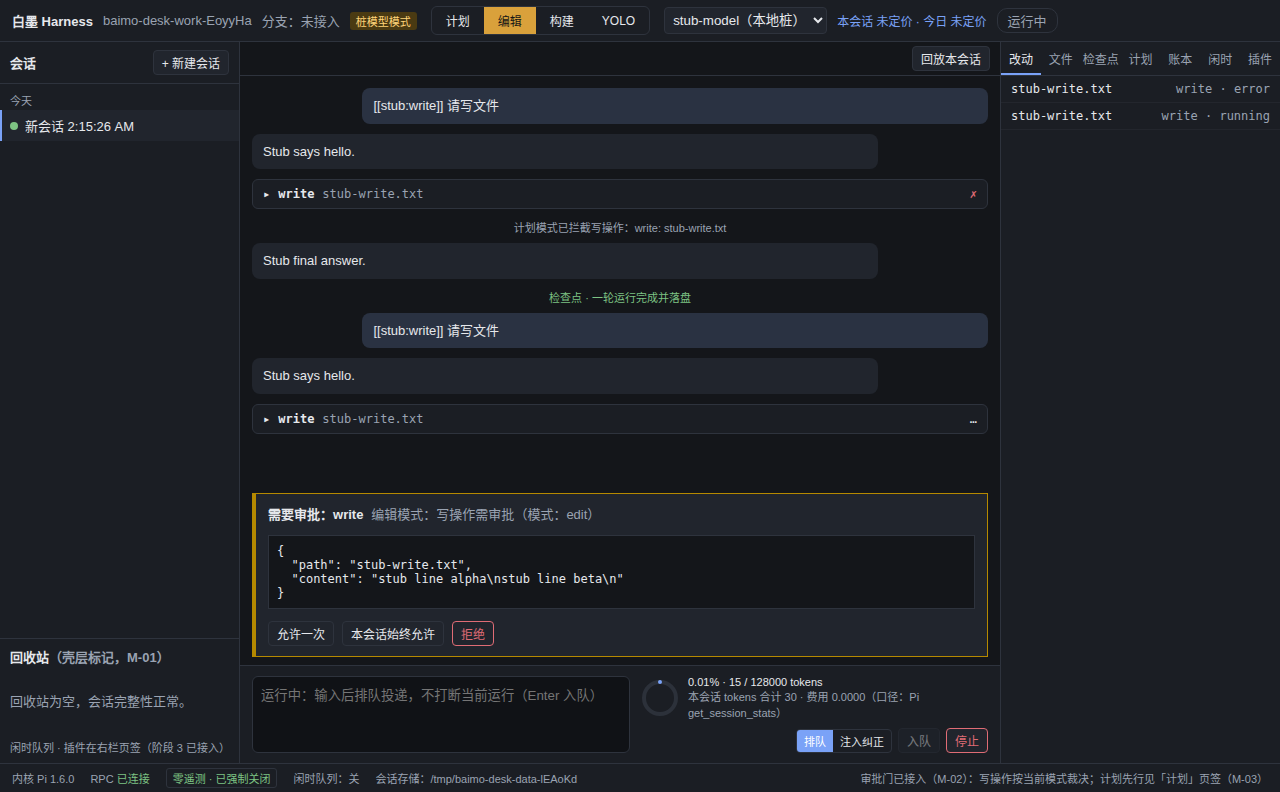
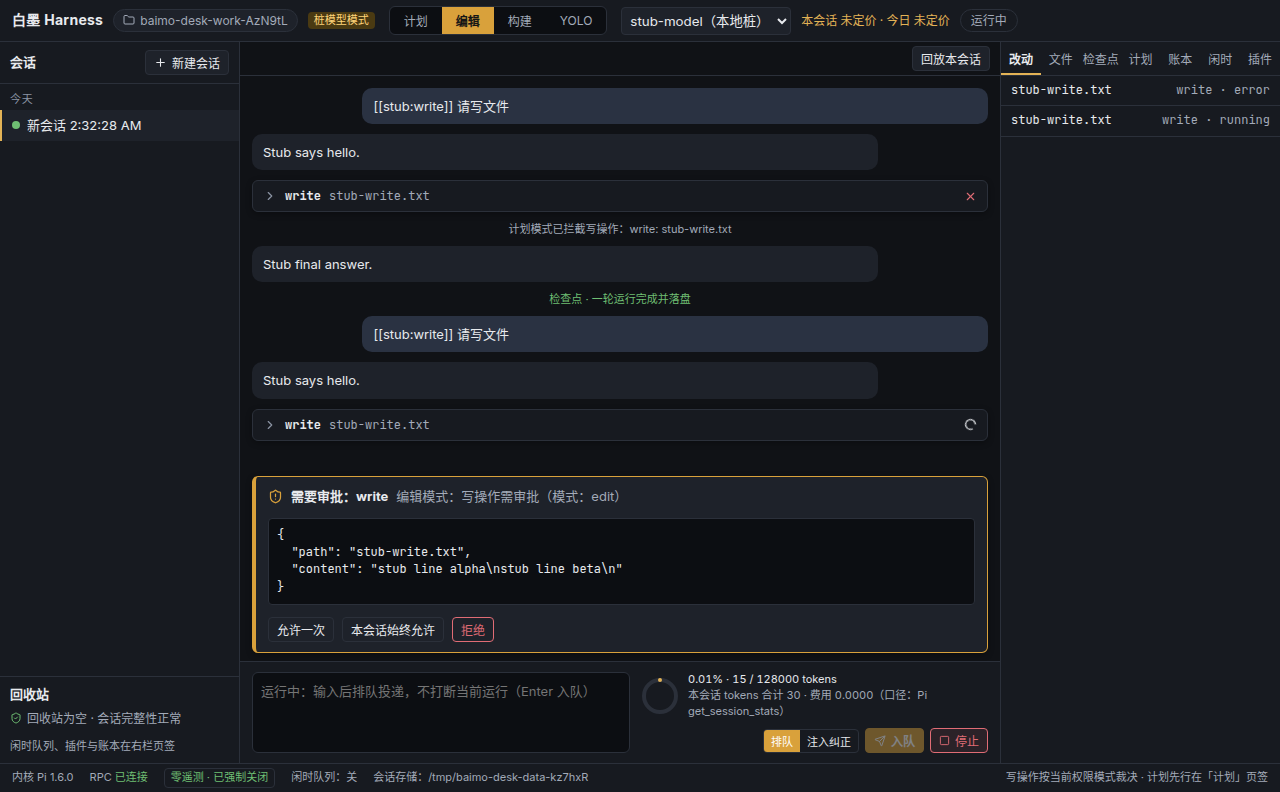
feat(ui): 第八块单元3 去占位与设计化空状态（EmptyState/LoadingRow 全面替换裸灰字、文件页签改设计空状态、修插件说明裸 ** 标记、文案去工程味：删分支未接入/M-xx 字样）

diff --git a/packages/ui/src/components.tsx b/packages/ui/src/components.tsx
@@ -9,19 +9,62 @@ import {
   ChevronRight,
   ChevronUp,
   Circle,
+  FileDiff,
+  Folder,
+  FolderOpen,
+  History,
+  Hourglass,
+  ListTodo,
   LoaderCircle,
+  MessagesSquare,
   Pause,
   Play,
   Plus,
+  Puzzle,
   RotateCcw,
   Send,
   ShieldAlert,
+  ShieldCheck,
   SkipBack,
   SkipForward,
   Square,
+  SquareTerminal,
   Undo2,
+  Wallet,
   X,
 } from "lucide-react";
+
+/* ---------------- 通用呈现：空状态与加载行 ---------------- */
+
+/**
+ * 设计化空状态：图标 + 一句结论 + 一句方向（下一步去哪/做什么）。
+ * 取代「白板 + 一行灰字」的占位式呈现；文案口径：给方向不给情绪。
+ */
+export function EmptyState(props: {
+  icon: ReactNode;
+  title: string;
+  hint?: string;
+  children?: ReactNode;
+}) {
+  return (
+    <div className="empty-state">
+      <span className="empty-icon">{props.icon}</span>
+      <span className="empty-title">{props.title}</span>
+      {props.hint && <span className="empty-hint">{props.hint}</span>}
+      {props.children}
+    </div>
+  );
+}
+
+/** 加载行：转圈图标 + 文案，取代裸「加载中…」灰字。 */
+export function LoadingRow(props: { label: string }) {
+  return (
+    <p className="loading-row">
+      <LoaderCircle size={13} className="icon-spin" />
+      {props.label}
+    </p>
+  );
+}
 import {
   PERMISSION_MODES,
   type ApprovalChoice,
@@ -70,9 +113,9 @@ export function TopBar(props: {
     <header className="topbar" data-testid="topbar">
       <div className="topbar-left">
         <span className="brand">白墨 Harness</span>
-        <span className="dim">{wsName}</span>
-        <span className="dim" title="Git 集成在阶段 2 接入">
-          分支：未接入
+        <span className="ws-chip" title={`工作区：${snapshot.workspaceDir}`}>
+          <Folder size={12} />
+          {wsName}
         </span>
         {snapshot.stubMode && <span className="badge-stub">桩模型模式</span>}
       </div>
@@ -108,7 +151,7 @@ export function TopBar(props: {
               );
               if (found) props.onModelChange(found.provider, found.modelId);
             }}
-            title="模型（应用于新会话；会话内热切换下一块接入）"
+            title="模型（应用于新会话）"
           >
             {snapshot.availableModels.map((m) => (
               <option
@@ -186,7 +229,11 @@ export function SessionList(props: {
       </div>
       <div className="session-scroll">
         {props.sessions.length === 0 && (
-          <p className="dim pad">暂无会话，点「新建会话」开始。</p>
+          <EmptyState
+            icon={<MessagesSquare size={17} />}
+            title="暂无会话"
+            hint="点右上角「新建会话」，开始第一轮任务。"
+          />
         )}
         {groups.map(([group, list]) => (
           <div key={group}>
@@ -223,11 +270,13 @@ export function SessionList(props: {
         ))}
       </div>
       <div className="sidebar-foot">
-        <div className="trash-head">
-          回收站
-          <span className="dim">（壳层标记，M-01）</span>
-        </div>
-        {props.trashed.length === 0 && <p className="dim pad">回收站为空，会话完整性正常。</p>}
+        <div className="trash-head">回收站</div>
+        {props.trashed.length === 0 && (
+          <p className="trash-empty">
+            <ShieldCheck size={12} />
+            回收站为空 · 会话完整性正常
+          </p>
+        )}
         {props.trashed.map((s) => (
           <div key={s.id} className="trash-item" data-testid="trash-item">
             <span className="session-title">{s.title}</span>
@@ -242,7 +291,7 @@ export function SessionList(props: {
             </button>
           </div>
         ))}
-        <div className="sidebar-links dim">闲时队列 · 插件在右栏页签（阶段 3 已接入）</div>
+        <div className="sidebar-links dim">闲时队列、插件与账本在右栏页签</div>
       </div>
     </aside>
   );
@@ -352,7 +401,11 @@ export function StreamView(props: {
   return (
     <div className="stream" data-testid="stream">
       {state.items.length === 0 && (
-        <p className="dim pad">执行流为空。在下方输入一条指令开始。</p>
+        <EmptyState
+          icon={<SquareTerminal size={17} />}
+          title="执行流为空"
+          hint="在下方输入一条指令，agent 的执行过程会实时出现在这里。"
+        />
       )}
       {state.items.map((it) => {
         switch (it.kind) {
@@ -457,7 +510,7 @@ export function IdlePanel(props: {
   if (!view) {
     return (
       <div data-testid="panel-idle">
-        <p className="dim pad">闲时队列加载中…</p>
+        <LoadingRow label="闲时队列加载中…" />
       </div>
     );
   }
@@ -476,7 +529,7 @@ export function IdlePanel(props: {
           启用闲时队列（全局空闲时自动执行）
         </label>
         <span className="dim">
-          未经启用绝不自启动（D-01）。排队 {queuedCount} 条
+          未经启用绝不自启动。排队 {queuedCount} 条
           {runningCount > 0 ? ` · 执行中 ${runningCount} 条` : ""}。任务走与
           前台相同的链路：检查点自动打点、审批/计划照常、成本入账、超预算熔断停摆。
           前台任务到来时正在跑的闲时任务会让路回队列。
@@ -535,7 +588,11 @@ export function IdlePanel(props: {
       </div>
       <div className="idle-items">
         {view.items.length === 0 && (
-          <p className="dim pad">队列为空：把不紧急的活丢进来，空闲时自动跑。</p>
+          <EmptyState
+            icon={<Hourglass size={17} />}
+            title="队列为空"
+            hint="把不紧急的活投递进来，全局空闲时会自动按序执行。"
+          />
         )}
         {view.items.map((it) => (
           <div
@@ -618,14 +675,18 @@ export function PluginsPanel(props: {
   const plugins = props.plugins;
   return (
     <div data-testid="panel-plugins">
-      <p className="dim pad">
-        插件 = Pi 扩展（本地目录扫描）。启停落盘保存，对**新建或续接**的
+      <p className="panel-note">
+        插件 = Pi 扩展（本地目录扫描）。启停落盘保存，对<strong>新建或续接</strong>的
         会话生效，进行中的会话不变。加载失败的插件会让会话启动失败，
         并在报错里点名该插件与原因——坏插件也会先在本面板显形。
       </p>
-      {plugins === null && <p className="dim pad">插件目录加载中…</p>}
+      {plugins === null && <LoadingRow label="插件目录加载中…" />}
       {plugins !== null && plugins.length === 0 && (
-        <p className="dim pad">插件目录为空：把扩展 .mjs 文件放进数据目录的 plugins/ 子目录即可。</p>
+        <EmptyState
+          icon={<Puzzle size={17} />}
+          title="插件目录为空"
+          hint="把扩展 .mjs 文件放进数据目录的 plugins/ 子目录，新建会话时加载。"
+        />
       )}
       {(plugins ?? []).map((p) => (
         <div
@@ -707,7 +768,7 @@ export function LedgerPanel(props: {
   if (!view) {
     return (
       <div data-testid="panel-ledger">
-        <p className="dim pad">成本账本加载中…</p>
+        <LoadingRow label="成本账本加载中…" />
       </div>
     );
   }
@@ -832,7 +893,11 @@ export function LedgerPanel(props: {
         <h4>最近账目</h4>
         <div data-testid="ledger-entries">
           {view.recentEntries.length === 0 && (
-            <p className="dim">暂无账目：跑一轮运行后按差分自动记账。</p>
+            <EmptyState
+              icon={<Wallet size={17} />}
+              title="暂无账目"
+              hint="跑完一轮运行后，宿主会按会话统计差分自动记账。"
+            />
           )}
           {view.recentEntries.map((e, i) => (
             <div key={`${e.ts}-${i}`} className="ledger-entry" data-testid="ledger-entry">
@@ -1122,9 +1187,11 @@ export function RightPanel(props: {
         {props.tab === "changes" && (
           <div data-testid="panel-changes">
             {changes.length === 0 ? (
-              <p className="dim pad">
-                本会话暂无文件改动（工具事件里还没有 edit/write 成功记录）。
-              </p>
+              <EmptyState
+                icon={<FileDiff size={17} />}
+                title="本会话暂无文件改动"
+                hint="工具事件里还没有 edit/write 成功记录；agent 改动文件后会汇总到这里。"
+              />
             ) : (
               changes.map((c) => (
                 <div key={c.toolCallId} className="change-row">
@@ -1139,7 +1206,11 @@ export function RightPanel(props: {
         )}
         {props.tab === "files" && (
           <div data-testid="panel-files">
-            <p className="dim pad">文件树占位 —— 本块未实现，后续阶段接入（结构占位）。</p>
+            <EmptyState
+              icon={<FolderOpen size={17} />}
+              title="文件树尚未接入"
+              hint="该页签为后续阶段预留。当前查看改动请用「改动」页签，回滚工作区请用「检查点」页签。"
+            />
           </div>
         )}
         {props.tab === "checkpoints" && (
@@ -1157,7 +1228,11 @@ export function RightPanel(props: {
               </button>
             </div>
             {checkpoints.length === 0 && (
-              <p className="dim pad">暂无检查点：发一轮指令或点「手动打点」生成。</p>
+              <EmptyState
+                icon={<History size={17} />}
+                title="暂无检查点"
+                hint="发送一轮指令后会自动打点，也可以点上方「手动打点」立即创建。"
+              />
             )}
             {checkpoints.map((c) => (
               <div
@@ -1204,9 +1279,11 @@ export function RightPanel(props: {
               </span>
             </div>
             {!props.planView?.plan ? (
-              <p className="dim pad">
-                本会话暂无计划：开启「计划先行」后发一条任务，agent 会先提交计划到这里。
-              </p>
+              <EmptyState
+                icon={<ListTodo size={17} />}
+                title="本会话暂无计划"
+                hint="开启上方「计划先行」后发送任务，agent 会先把计划提交到这里待你批准。"
+              />
             ) : (
               <div className="pad">
                 <div className="plan-head">
@@ -1575,7 +1652,7 @@ export function StatusBar(props: {
       <span className="dim">会话存储：{props.dataDir}</span>
       <span className="spacer" />
       <span className="dim" data-testid="mode-note">
-        审批门已接入（M-02）：写操作按当前模式裁决；计划先行见「计划」页签（M-03）
+        写操作按当前权限模式裁决 · 计划先行在「计划」页签
       </span>
     </footer>
   );

diff --git a/packages/ui/src/styles.css b/packages/ui/src/styles.css
@@ -138,6 +138,23 @@ input, textarea, select { font-family: inherit; }
 /* 每视图一个 primary action：填充强调色 + 白字，其余按钮保持描边次级 */
 .btn-primary { background: var(--accent-strong); border-color: var(--accent-strong); color: #fff; font-weight: 600; }
 .btn-primary:hover:not(:disabled) { background: var(--accent-strong); border-color: var(--border-strong); filter: brightness(1.12); }
+/* 设计化空状态：图标徽章 + 结论 + 方向 */
+.empty-state { display: flex; flex-direction: column; align-items: center; text-align: center; gap: 6px; padding: 26px var(--sp-4); }
+.empty-icon {
+  width: 38px; height: 38px; border-radius: 50%;
+  background: var(--panel-2); border: 1px solid var(--border);
+  display: flex; align-items: center; justify-content: center; color: var(--faint);
+  margin-bottom: 2px;
+}
+.empty-title { font-weight: 600; font-size: var(--fs-13); }
+.empty-hint { color: var(--dim); font-size: var(--fs-12); line-height: 1.55; max-width: 240px; }
+/* 加载行与说明块 */
+.loading-row { display: flex; align-items: center; gap: var(--sp-2); padding: 14px 10px; margin: 0; color: var(--dim); font-size: var(--fs-12); }
+.panel-note {
+  margin: 10px; padding: var(--sp-2) 10px; color: var(--dim); font-size: var(--fs-12); line-height: 1.55;
+  background: var(--panel-2); border: 1px solid var(--border); border-radius: var(--r-md);
+}
+.panel-note strong { color: var(--text); }
 
 .app-shell { display: flex; flex-direction: column; height: 100vh; }
 .main-row { display: flex; flex: 1; min-height: 0; }
@@ -149,6 +166,12 @@ input, textarea, select { font-family: inherit; }
 }
 .topbar-left, .topbar-right { display: flex; align-items: center; gap: 10px; }
 .brand { font-weight: 700; font-size: var(--fs-14); letter-spacing: 0.02em; }
+.ws-chip {
+  display: inline-flex; align-items: center; gap: 5px;
+  background: var(--panel-2); border: 1px solid var(--border); border-radius: var(--r-pill);
+  padding: 2px 9px; font-size: var(--fs-12); color: var(--dim);
+  max-width: 260px; overflow: hidden; text-overflow: ellipsis; white-space: nowrap;
+}
 .badge-stub { background: #4a3a12; color: #ffd479; border-radius: var(--r-sm); padding: 1px 6px; font-size: var(--fs-11); }
 .mode-switch { display: flex; border: 1px solid var(--border); border-radius: var(--r-md); overflow: hidden; background: var(--code-bg); }
 .mode-btn { border: none; border-radius: 0; background: transparent; padding: 5px 14px; color: var(--dim); }
@@ -192,6 +215,8 @@ input, textarea, select { font-family: inherit; }
 .dot-aborted { background: var(--err); }
 .sidebar-foot { border-top: 1px solid var(--border); padding: var(--sp-2) 0; }
 .trash-head { padding: 0 10px var(--sp-1); font-weight: 600; }
+.trash-empty { display: flex; align-items: center; gap: 5px; margin: 0; padding: 2px 10px var(--sp-1); color: var(--dim); font-size: var(--fs-12); }
+.trash-empty svg { color: var(--ok); flex-shrink: 0; }
 .trash-item { display: flex; align-items: center; gap: 7px; padding: var(--sp-1) 10px; color: var(--dim); }
 .sidebar-links { padding: var(--sp-2) 10px 0; font-size: var(--fs-11); }
 
